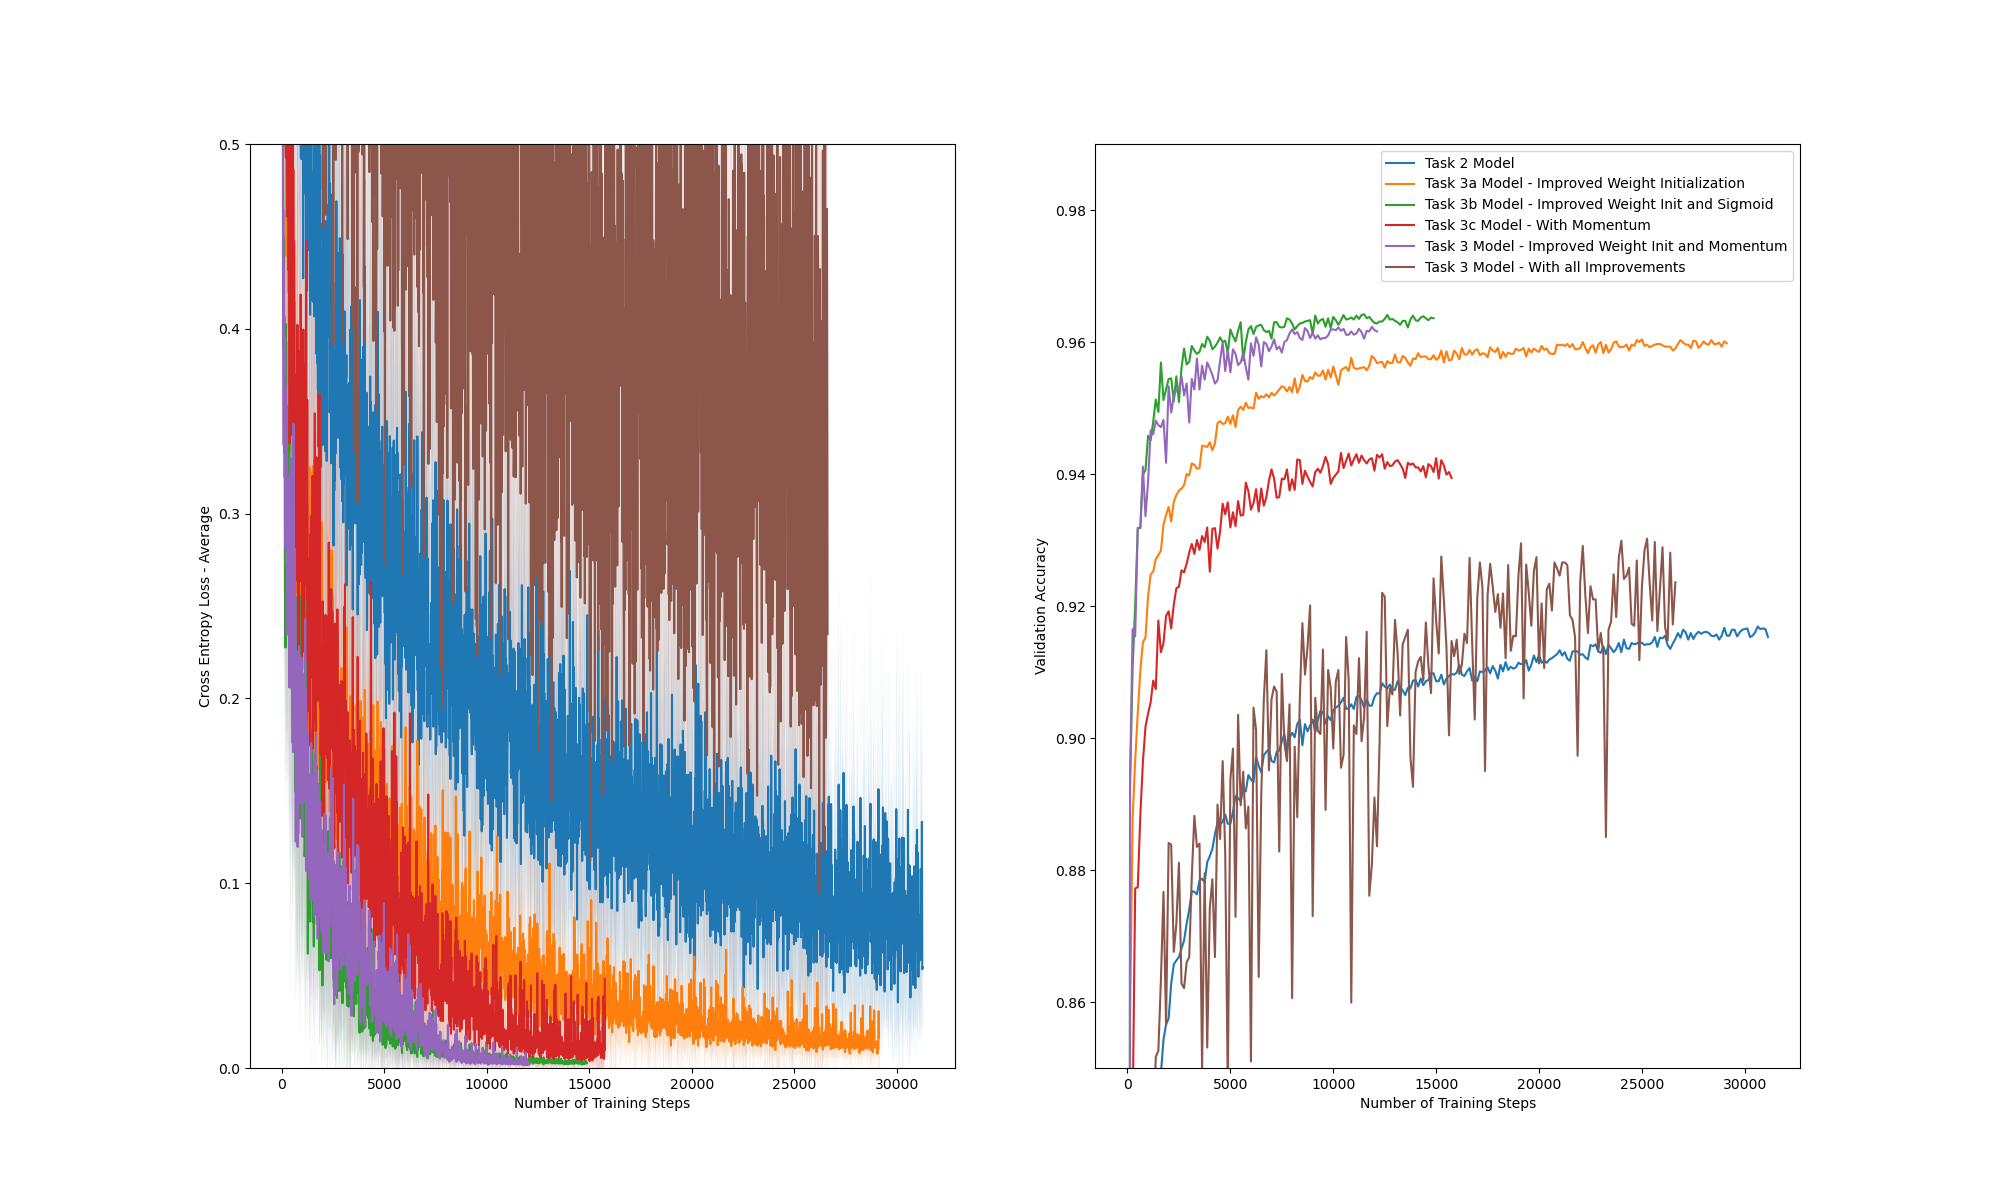
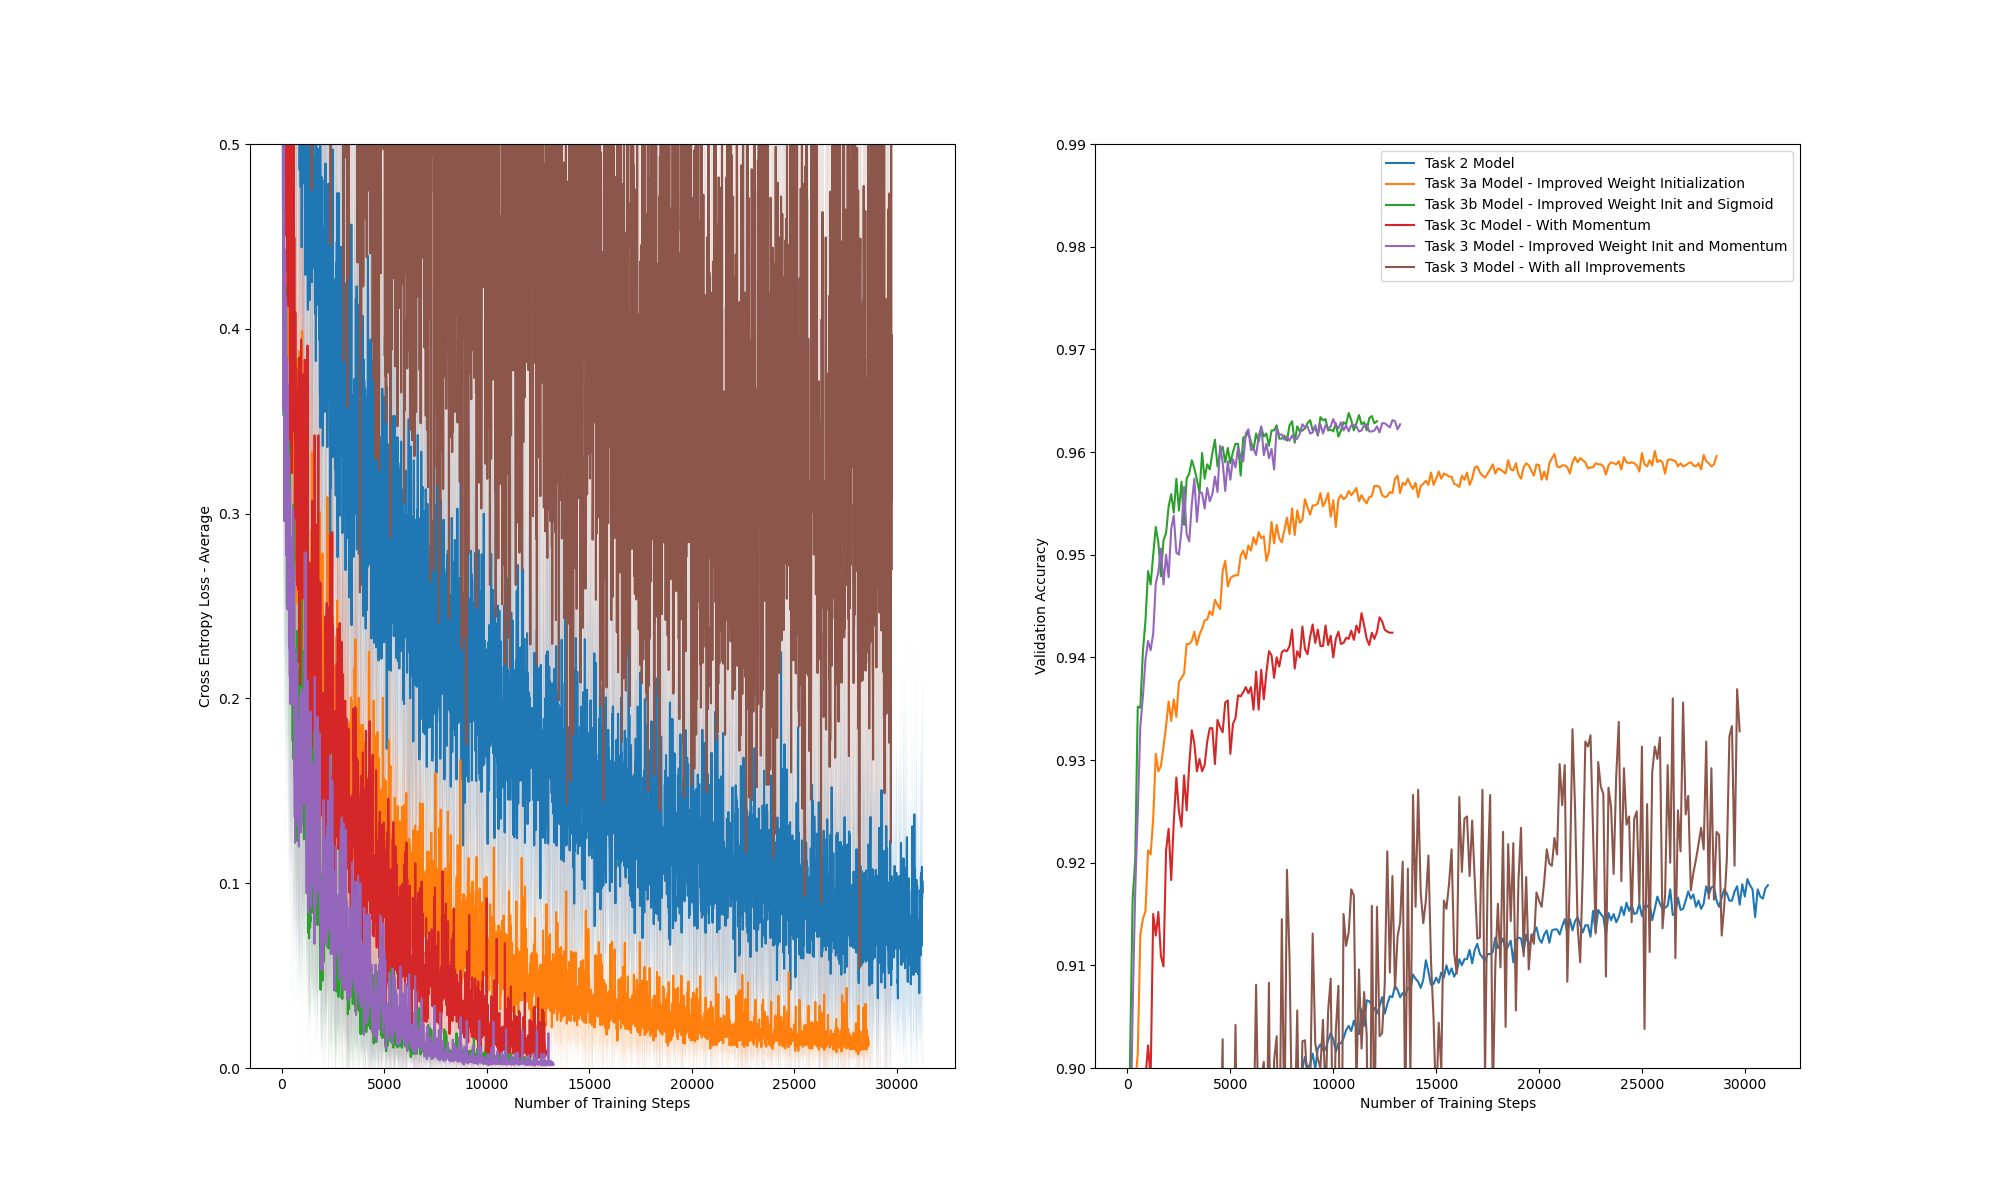
Updated task 3, Finsished coding for Task 4

Changed region(s): [[0.124, 0.1233, 0.465, 0.8942], [0.527, 0.2467, 0.899, 0.8942], [0.527, 0.2775, 0.558, 0.3083]]

diff --git a/assignment2/task2a.py b/assignment2/task2a.py
@@ -1,6 +1,7 @@
 import numpy as np
 import utils
 import typing
+
 np.random.seed(1)
 
 
@@ -11,11 +12,11 @@ def pre_process_images(X: np.ndarray):
     Returns:
         X: images of shape [batch size, 785] normalized as described in task2a
     """
-    assert X.shape[1] == 784,\
+    assert X.shape[1] == 784, \
         f"X.shape[1]: {X.shape[1]}, should be 784"
 
     # normalization trick
-    X = (X - np.mean(X))/np.std(X)
+    X = (X - np.mean(X)) / np.std(X)
 
     # bias trick: add 1 at the end of each image
     X = np.append(X, np.ones((X.shape[0], 1)), axis=1)
@@ -34,21 +35,21 @@ def sigmoid_prime(z):
     """
     Derivative of the sigmoid function
     """
-    return sigmoid(z)*(1-sigmoid(z))
+    return sigmoid(z) * (1 - sigmoid(z))
 
 
 def improved_sigmoid(z):
     """
     The improved sigmoid function, zero-centered function
     """
-    return 1.7159 * np.tanh(2*z/3)
+    return 1.7159 * np.tanh(2 * z / 3)
 
 
 def improved_sigmoid_prime(z):
     """
     Derivative of the improved sigmoid
     """
-    return 1.7159 * 2 / (3 * np.cosh(2*z/3)**2)
+    return 1.7159 * 2 / (3 * np.cosh(2 * z / 3) ** 2)
 
 
 def softmax(z):
@@ -67,7 +68,7 @@ def cross_entropy_loss(targets: np.ndarray, outputs: np.ndarray):
         Cross entropy error (float)
     """
 
-    assert targets.shape == outputs.shape,\
+    assert targets.shape == outputs.shape, \
         f"Targets shape: {targets.shape}, outputs: {outputs.shape}"
 
     C = - (targets * np.log(outputs)).sum(axis=1)
@@ -90,7 +91,9 @@ class SoftmaxModel:
         self.use_improved_sigmoid = use_improved_sigmoid
 
         # Define hidden_layer_output
-        self.hidden_layer_output = None
+        self.hidden_layer_output = [np.zeros(n) for n in neurons_per_layer[:-1]]
+        # Add hidden_layer before activation
+        self.hidden_layer_activation = [np.zeros(n) for n in neurons_per_layer[:-1]]
 
         # Define number of output nodes
         # neurons_per_layer = [64, 10] indicates that we will have two layers:
@@ -119,14 +122,23 @@ class SoftmaxModel:
             y: output of model with shape [batch size, num_outputs]
         """
 
-        # HINT: For peforming the backward pass, you can save intermediate activations in varialbes in the forward pass.
-        # such as self.hidden_layer_ouput = ...
-        if self.use_improved_sigmoid:
-            self.hidden_layer_output = improved_sigmoid(X.dot(self.ws[0]))
-        else:
-            self.hidden_layer_output = sigmoid(X.dot(self.ws[0]))
+        def _sigmoid(z):
+            """Internal function for switching between standard sigmoid and the erivative of the improved sigmoid"""
+            if self.use_improved_sigmoid:
+                return improved_sigmoid(z)
+            return sigmoid(z)
 
-        return softmax(self.hidden_layer_output.dot(self.ws[1]))
+        # Forward pass using improved_sigmoid
+        # first hidden layer
+        self.hidden_layer_activation[0] = X.dot(self.ws[0])
+        self.hidden_layer_output[0] = _sigmoid(self.hidden_layer_activation[0])
+
+        # Task 4c - variable number of hidden layer
+        for layer_idx in range(1, len(self.hidden_layer_output)):
+            self.hidden_layer_activation[layer_idx] = self.hidden_layer_output[layer_idx - 1].dot(self.ws[layer_idx])
+            self.hidden_layer_output[layer_idx] = _sigmoid(self.hidden_layer_activation[layer_idx])
+
+        return softmax(self.hidden_layer_output[-1].dot(self.ws[-1]))
 
     def backward(self, X: np.ndarray, outputs: np.ndarray,
                  targets: np.ndarray) -> None:
@@ -138,18 +150,30 @@ class SoftmaxModel:
             outputs: outputs of model of shape: [batch size, num_outputs]
             targets: labels/targets of each image of shape: [batch size, num_classes]
         """
-        assert targets.shape == outputs.shape,\
+        assert targets.shape == outputs.shape, \
             f"Output shape: {outputs.shape}, targets: {targets.shape}"
-        # A list of gradients.
-        # For example, self.grads[0] will be the gradient for the first hidden layer
 
-        if self.use_improved_sigmoid:
-            g = np.dot(self.ws[1], -(targets - outputs).T).T * improved_sigmoid_prime(np.dot(X, self.ws[0]))
-        else:
-            g = np.dot(self.ws[1], -(targets - outputs).T).T * sigmoid_prime(np.dot(X, self.ws[0]))
+        def _sigmoid_prime(z):
+            """Internal function for switching between standard sigmoid and the erivative of the improved sigmoid"""
+            if self.use_improved_sigmoid:
+                return improved_sigmoid_prime(z)
+            return sigmoid_prime(z)
 
-        self.grads[0] = np.dot(X.T, g) / outputs.shape[0]
-        self.grads[1] = np.dot(-(targets - outputs).T, self.hidden_layer_output).T / outputs.shape[0]
+        # compute error for the last layer
+        error = outputs - targets
+
+        # reverse iteration over layers
+        for layer_idx in range(1, len(self.ws)):
+            # update gradient with error
+            self.grads[-layer_idx] = np.dot(self.hidden_layer_output[-layer_idx].T, error) / outputs.shape[0]
+
+            # compute error for the previous layer
+            error = np.dot(error, self.ws[-layer_idx].T) * _sigmoid_prime(self.hidden_layer_activation[-layer_idx])
+            # TODO: Following https://stackoverflow.com/questions/54624562/back-propagation-and-forward-propagation-for-2-hidden-layers-in-neural-network/56425972
+            #  the weight update must be computed before computing the error for hidden layers
+
+        # update gradient of first layer
+        self.grads[0] = np.dot(X.T, error) / outputs.shape[0]
 
         for grad, w in zip(self.grads, self.ws):
             assert grad.shape == w.shape,\
@@ -193,8 +217,8 @@ def gradient_approximation_test(
                 logits = model.forward(X)
                 model.backward(X, logits, Y)
                 difference = gradient_approximation - \
-                    model.grads[layer_idx][i, j]
-                assert abs(difference) <= epsilon**2,\
+                             model.grads[layer_idx][i, j]
+                assert abs(difference) <= epsilon ** 2, \
                     f"Calculated gradient is incorrect. " \
                     f"Layer IDX = {layer_idx}, i={i}, j={j}.\n" \
                     f"Approximation: {gradient_approximation}, actual gradient: {model.grads[layer_idx][i, j]}\n" \
@@ -213,7 +237,7 @@ if __name__ == "__main__":
     X_train, Y_train, *_ = utils.load_full_mnist()
     X_train = pre_process_images(X_train)
     Y_train = one_hot_encode(Y_train, 10)
-    assert X_train.shape[1] == 785,\
+    assert X_train.shape[1] == 785, \
         f"Expected X_train to have 785 elements per image. Shape was: {X_train.shape}"
 
     neurons_per_layer = [64, 10]

diff --git a/assignment2/task3.py b/assignment2/task3.py
@@ -73,7 +73,7 @@ if __name__ == "__main__":
             plt.legend()
 
             plt.subplot(1, 2, 2)
-            plt.ylim([0.85, .99])
+            plt.ylim([0.9, .99])
             utils.plot_loss(val_history["accuracy"], "Task 2 Model")
             utils.plot_loss(val_history_improved_weight["accuracy"], "Task 3a Model - Improved Weight Initialization")
             plt.xlabel("Number of Training Steps")
@@ -117,7 +117,7 @@ if __name__ == "__main__":
             plt.legend()
 
             plt.subplot(1, 2, 2)
-            plt.ylim([0.85, .99])
+            plt.ylim([0.9, .99])
             utils.plot_loss(val_history["accuracy"], "Task 2 Model")
             utils.plot_loss(val_history_improved_sigmoid["accuracy"],
                             "Task 3b Model - Improved Weight Init and Sigmoid")
@@ -158,7 +158,7 @@ if __name__ == "__main__":
             plt.legend()
 
             plt.subplot(1, 2, 2)
-            plt.ylim([0.85, .99])
+            plt.ylim([0.9, .99])
             utils.plot_loss(val_history["accuracy"], "Task 2 Model")
             utils.plot_loss(val_history_momentum["accuracy"], "Task 3c Model - With Momentum")
             plt.xlabel("Number of Training Steps")
@@ -201,7 +201,7 @@ if __name__ == "__main__":
             plt.ylabel("Cross Entropy Loss - Average")
 
             plt.subplot(1, 2, 2)
-            plt.ylim([0.85, .99])
+            plt.ylim([0.9, .99])
             utils.plot_loss(val_history["accuracy"], "Task 2 Model")
             utils.plot_loss(val_history_improved_weight_momentum["accuracy"],
                             "Task 3 Model - Improved Weight Init and Momentum")
@@ -244,7 +244,7 @@ if __name__ == "__main__":
             plt.ylabel("Cross Entropy Loss - Average")
 
             plt.subplot(1, 2, 2)
-            plt.ylim([0.85, .99])
+            plt.ylim([0.9, .99])
             utils.plot_loss(val_history["accuracy"], "Task 2 Model")
             utils.plot_loss(val_history_improved_all["accuracy"], "Task 3 Model - With all Improvements")
             plt.xlabel("Number of Training Steps")
@@ -275,7 +275,7 @@ if __name__ == "__main__":
     plt.ylabel("Cross Entropy Loss - Average")
 
     plt.subplot(1, 2, 2)
-    plt.ylim([0.85, .99])
+    plt.ylim([0.9, .99])
     utils.plot_loss(val_history["accuracy"], "Task 2 Model")
     if compare_improved_weight_init:
         utils.plot_loss(val_history_improved_weight["accuracy"], "Task 3a Model - Improved Weight Initialization")

diff --git a/assignment2/task4de.py b/assignment2/task4de.py
@@ -8,14 +8,19 @@ if __name__ == "__main__":
     # initialize dicts for results
     train_history = dict()
     val_history = dict()
-    list_hidden_neurons = [32, 64, 128]
+    list_neurons_per_layer = [[64, 10],
+                              [60, 60, 10],
+                              [64, 64, 64, 64, 64, 64, 64, 64, 64, 64, 10],
+                              ]
+    model_names = ['Baseline - One hidden layer with 64 neurons',
+                   'Model Task 4d - Two hidden layers with 60 neurons',
+                   'Model Task 4e - Ten hidden layers with 64 neurons']
 
     # evaluate models for each number of hidden neurons
-    for num_hidden_neurons in list_hidden_neurons:
+    for neurons_per_layer, model_name in zip(list_neurons_per_layer, model_names):
         num_epochs = 50
         learning_rate = .1
         batch_size = 32
-        neurons_per_layer = [num_hidden_neurons, 10]
         momentum_gamma = .9
         shuffle_data = True
 
@@ -41,25 +46,25 @@ if __name__ == "__main__":
             X_train, Y_train, X_val, Y_val,
         )
         current_train_history, current_val_history = trainer.train(num_epochs)
-        train_history[num_hidden_neurons] = current_train_history
-        val_history[num_hidden_neurons] = current_val_history
+        train_history[model_name] = current_train_history
+        val_history[model_name] = current_val_history
 
     plt.figure(figsize=(20, 12))
     plt.subplot(1, 2, 1)
     plt.ylim([0, .5])
-    for num_hidden_neurons in list_hidden_neurons:
-        utils.plot_loss(train_history[num_hidden_neurons]["loss"], f"Model with {num_hidden_neurons} hidden neurons",
+    for model_name in train_history.keys():
+        utils.plot_loss(train_history[model_name]["loss"], model_name,
                         npoints_to_average=10)
     plt.xlabel("Number of Training Steps")
     plt.ylabel("Cross Entropy Loss - Average")
 
     plt.subplot(1, 2, 2)
     plt.ylim([0.9, .99])
-    for num_hidden_neurons in list_hidden_neurons:
-        utils.plot_loss(val_history[num_hidden_neurons]["accuracy"], f"Model with {num_hidden_neurons} hidden neurons")
+    for model_name in val_history.keys():
+        utils.plot_loss(val_history[model_name]["accuracy"], model_name)
 
     plt.xlabel("Number of Training Steps")
     plt.ylabel("Validation Accuracy")
     plt.legend()
     # plt.show()
-    plt.savefig("task4ab_num_hidden_neurons.png")
+    plt.savefig("task4de_hidden_layers.png")

diff --git a/assignment2/task2.py b/assignment2/task2.py
@@ -58,17 +58,17 @@ class SoftmaxTrainer(BaseTrainer):
 
         if self.use_momentum:
             # update delta w (Formula 6)
-            self.previous_grads[1] = self.model.grads[1] + self.momentum_gamma * self.previous_grads[1]
-            self.previous_grads[0] = self.model.grads[0] + self.momentum_gamma * self.previous_grads[0]
+            for layer_idx, grads in enumerate(self.model.grads):
+                self.previous_grads[layer_idx] = grads + self.momentum_gamma * self.previous_grads[layer_idx]
 
             # Update weights in gradiant step with momentum
-            self.model.ws[1] = self.model.ws[1] - self.learning_rate * self.previous_grads[1]
-            self.model.ws[0] = self.model.ws[0] - self.learning_rate * self.previous_grads[0]
+            for layer_idx, previous_grads in enumerate(self.previous_grads):
+                self.model.ws[layer_idx] = self.model.ws[layer_idx] - self.learning_rate * previous_grads
 
         else:
             # Update weights in gradiant step
-            self.model.ws[1] = self.model.ws[1] - self.learning_rate * self.model.grads[1]
-            self.model.ws[0] = self.model.ws[0] - self.learning_rate * self.model.grads[0]
+            for layer_idx, grads in enumerate(self.model.grads):
+                self.model.ws[layer_idx] = self.model.ws[layer_idx] - self.learning_rate * grads
 
         # Calculate cross entropy loss
         loss = cross_entropy_loss(Y_batch, Yhat_batch)
